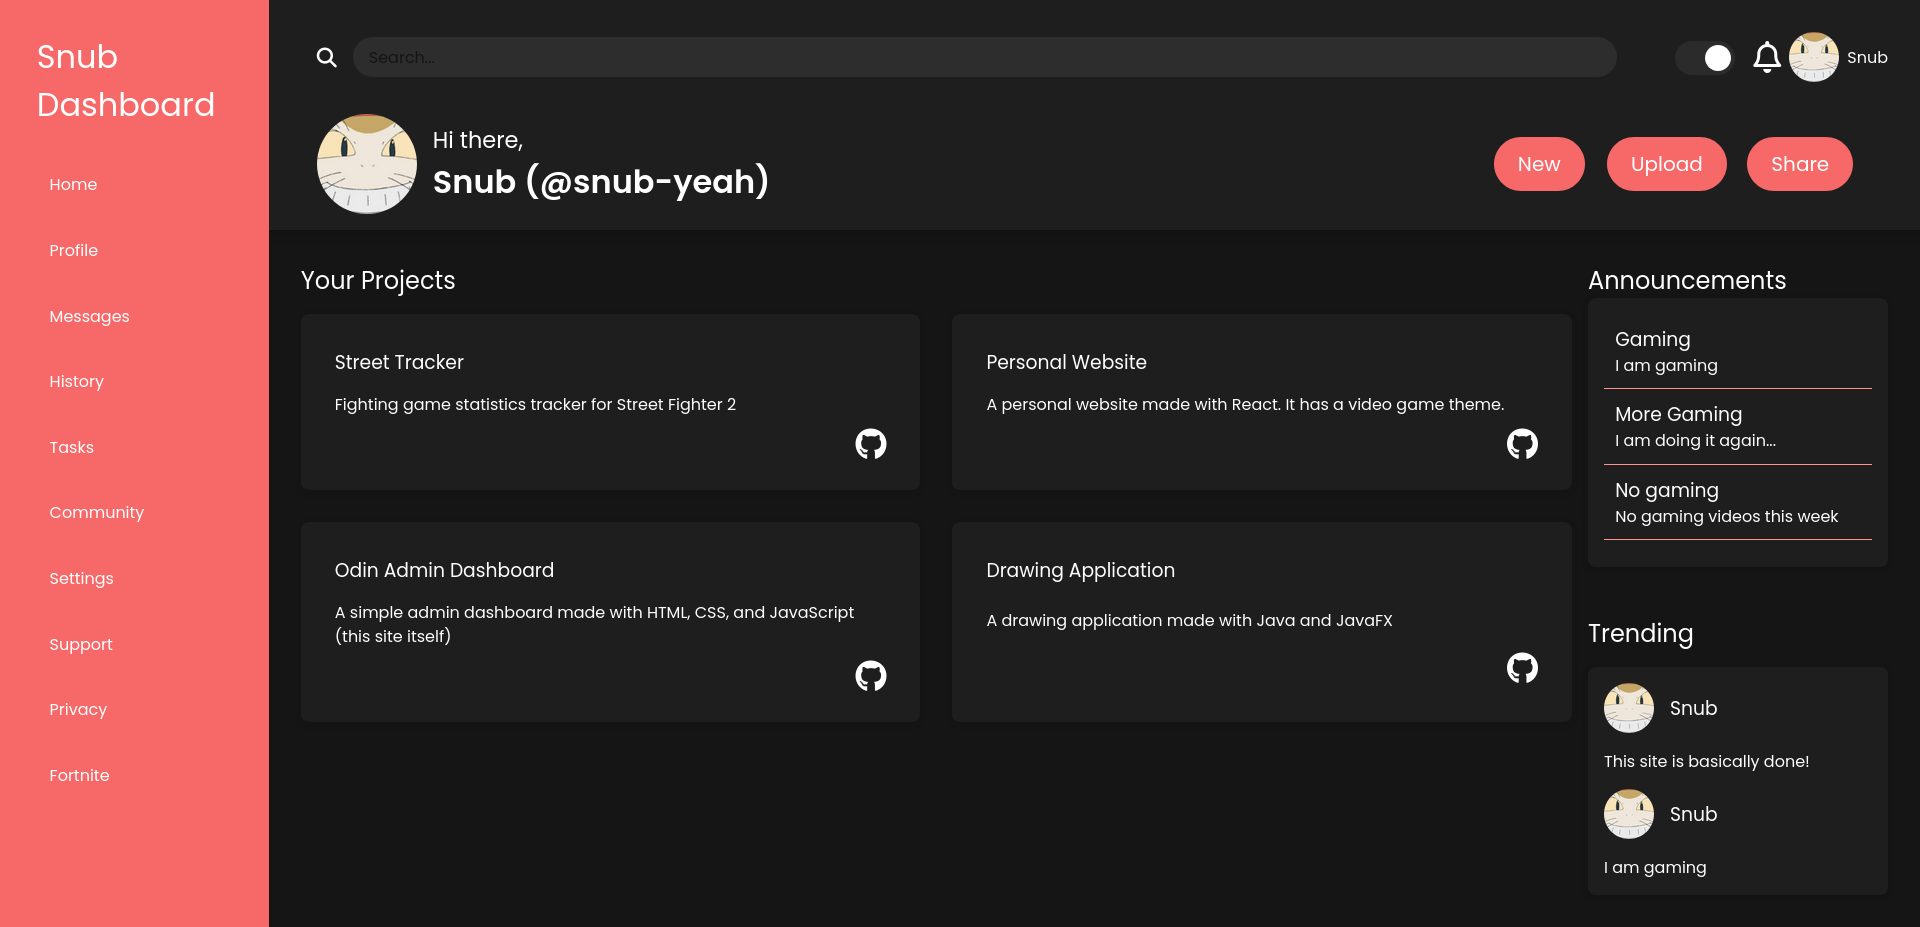
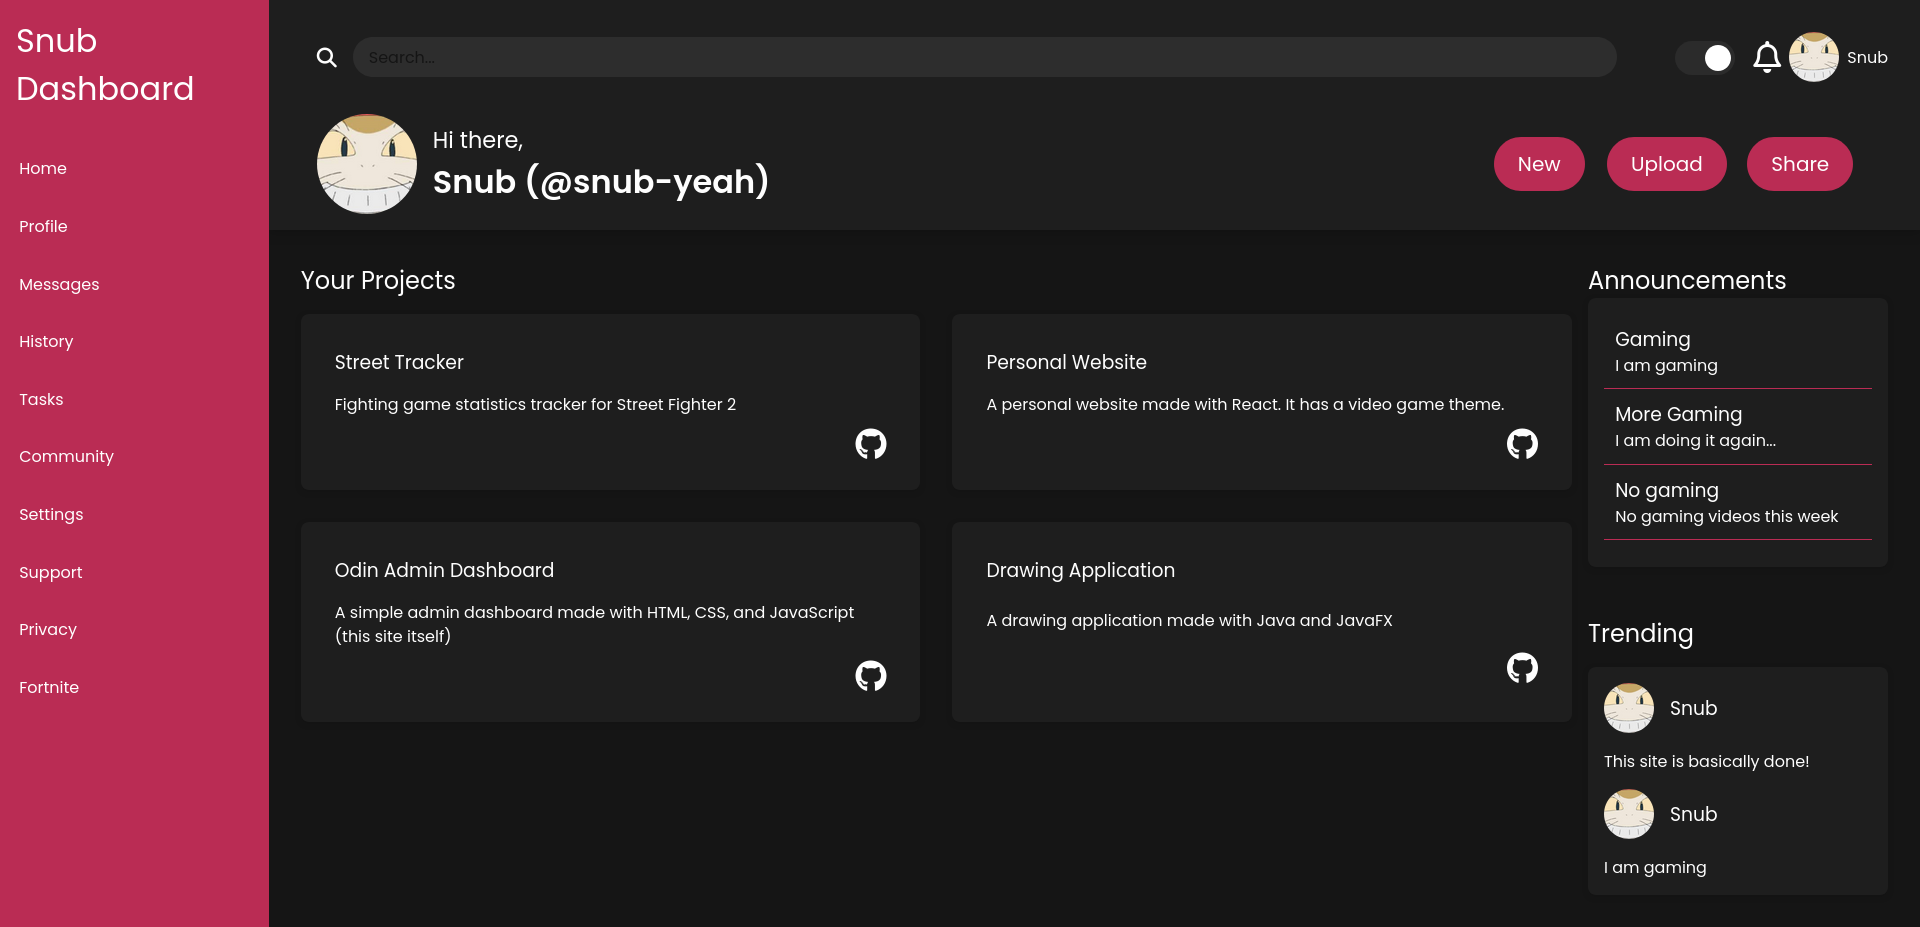
Added link hover animations, changed colors to be up to WCAG standards, updated screenshots

Changed region(s): [[0.0, 0.0, 0.1562, 1.0], [0.7812, 0.151, 0.9688, 0.2114]]

diff --git a/index.html b/index.html
@@ -15,19 +15,39 @@
     <div class="container">
         <div class="sidebar">
             <div class="sidebar-text">
-                <h1>Snub Dashboard</h1>
-                    <div class="menu">
-                        <a href="#">Home</a>
-                        <a href="#">Profile</a>
-                        <a href="#">Messages</a>
-                        <a href="#">History</a>
-                        <a href="#">Tasks</a>
-                        <a href="#">Community</a>
-                        <a href="#">Settings</a>
-                        <a href="#">Support</a>
-                        <a href="#">Privacy</a>
-                        <a href="https://www.fortnite.com/?lang=en-US" target="_blank">Fortnite</a>
-                    </div>
+                <h1 class="sidebar-title">Snub Dashboard</h1>
+                    <nav class="menu">
+                        <div class="menu-item">
+                            <a href="#">Home</a>
+                        </div>
+                        <div class="menu-item">
+                            <a href="#">Profile</a>
+                        </div>
+                        <div class="menu-item">
+                            <a href="#">Messages</a>
+                        </div>
+                        <div class="menu-item">
+                            <a href="#">History</a>
+                        </div>
+                        <div class="menu-item">
+                            <a href="#">Tasks</a>
+                        </div>
+                        <div class="menu-item">
+                            <a href="#">Community</a>
+                        </div>
+                        <div class="menu-item">
+                            <a href="#">Settings</a>
+                        </div>
+                        <div class="menu-item">
+                            <a href="#">Support</a>
+                        </div>
+                        <div class="menu-item">
+                            <a href="#">Privacy</a>
+                        </div>
+                        <div class="menu-item">
+                            <a href="https://www.fortnite.com/?lang=en-US" target="_blank">Fortnite</a>
+                        </div>
+                    </nav>
             </div>
         </div>
         

diff --git a/style.css b/style.css
@@ -15,35 +15,51 @@
 }
 
 .sidebar-text {
-    margin-left: 1.3rem;
     margin-top: 1rem;
+}
+
+.sidebar-title {
+    margin-left: 1rem;
+    margin-right: 1rem;
 }
 
 .sidebar {
     grid-row: 1 / -1;
     grid-column: 1;
-    padding: 1rem;
     background-color: var(--sidebar-bg);
     z-index: 2;
 }
 
 .sidebar h1 {
-    color: #fff;
+    color: var(--sidebar-text);
 }
 
 .sidebar a {
-    color: #fff;
+    color: var(--sidebar-text);
     text-decoration: none;
     display: block;
-    padding: 0.8rem;
-    border-radius: 5px;
+    padding: 2rem;
 }
 
 .menu {
-    display: flex;
-    flex-direction: column;
-    gap: 1rem;
+    display: grid;
+    gap: 0.5rem;
     margin-top: 2rem;
+}
+
+.menu-item {
+    width: 100%;
+}
+
+.menu-item a {
+    width: 100%;
+    display: block;
+    padding: 0.8rem 1.2rem;
+}
+
+.menu-item:hover {
+    background-color: var(--slightly-darker-sidebar-bg);
+    color: var(--sidebar-text);
 }
 
 .top-bar {
@@ -83,7 +99,7 @@
 
 .buttons button {
     background-color: var(--sidebar-bg);
-    color: #fff;
+    color: var(--sidebar-text);
     border: none;
     margin: 1.3rem;
     transform: scale(1.5);
@@ -93,6 +109,7 @@
 
 .buttons button:hover {
     cursor: pointer;
+    background-color: var(--slightly-darker-sidebar-bg);
     transform: scale(1.6);
     transition: all 0.2s ease;
 }
@@ -162,7 +179,7 @@
 
 .announcement {
     padding: 0.7rem;
-    border-bottom: 1px solid #fe9292;
+    border-bottom: 1px solid var(--sidebar-bg);
 }
 
 .trending-card {
@@ -318,23 +335,27 @@ input:checked + .slider:before {
 :root {
     --font-color: #0f0f0f;
     --bg-color: #fefefe;
-    --sidebar-bg: #f66968;
+    --sidebar-bg: #f4527d;
+    --slightly-darker-sidebar-bg: #ec4874;
     --card-bg: #ffffff;
     --content-bg: #ecf2f8;
     --search-bg: #e2e8f0;
     --search-focus-bg: #f1f5f9;
     --border-hover: #33b6f7;
+    --sidebar-text: #000000;
 }
 
 [data-theme="dark"] {
     --font-color: #fefefe;
     --bg-color: #121212;
-    --sidebar-bg: #f66968;
+    --sidebar-bg: #ba2c54;
+    --slightly-darker-sidebar-bg: #ac254b;
     --card-bg: #1e1e1e;
     --content-bg: #151515;
     --search-bg: #2d2d2d;
     --search-focus-bg: #3d3d3d;
     --border-hover: #1a5a7a;
+    --sidebar-text: #ffffff;
 }
 
 /* set colors down here, these are dependent on the theme */
